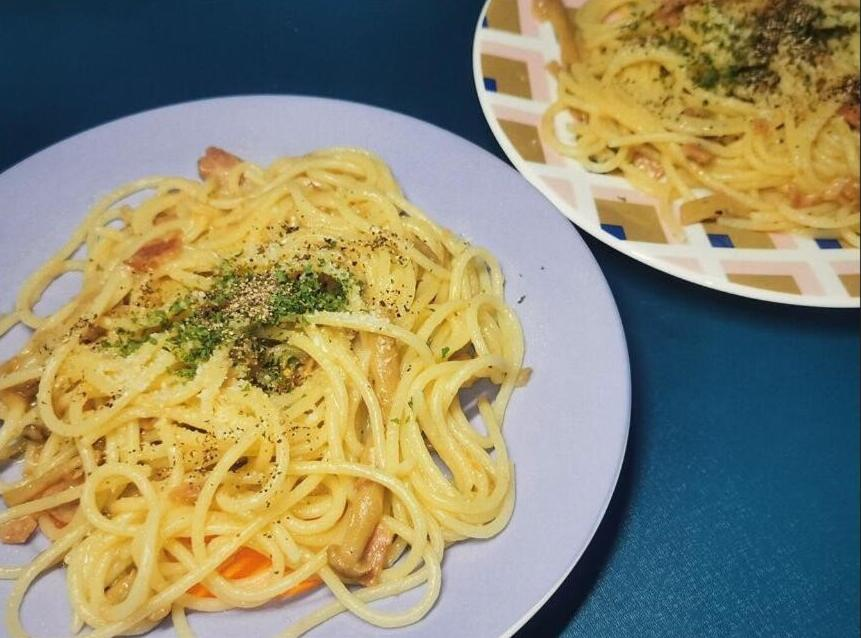
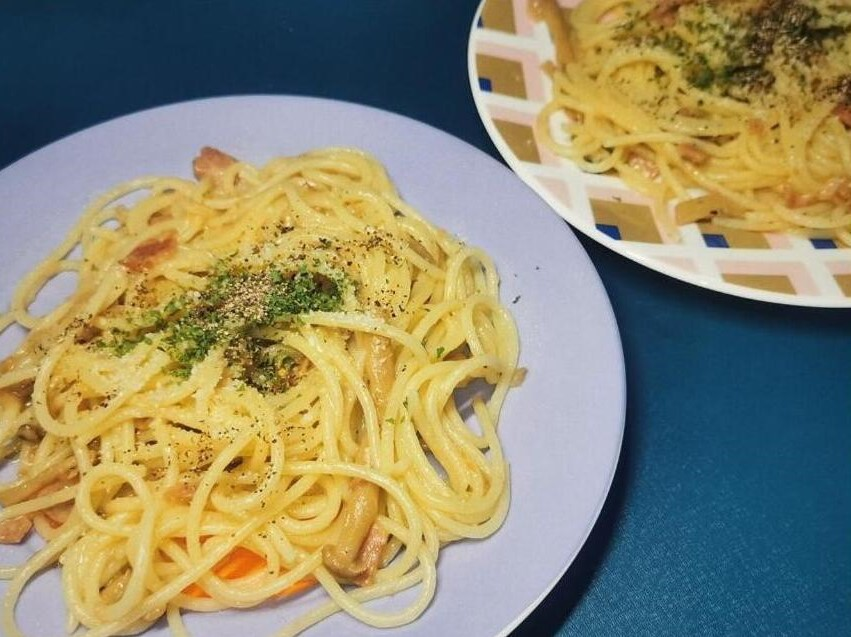
“第四次上传”

diff --git a/index.html b/index.html
@@ -204,8 +204,8 @@
                   </figure>
     
                   <figure class="col-md-4">
-                    <a href="./img/pic/2/12.jpg" data-size="1600x1200">
-                      <img src="./img/pic/2/12.jpg"
+                    <a href="./img/pic/2/122.jpg" data-size="1600x1200">
+                      <img src="./img/pic/2/122.jpg"
                         class="img-fluid z-depth-1-half" />
                     </a>
                   </figure>
